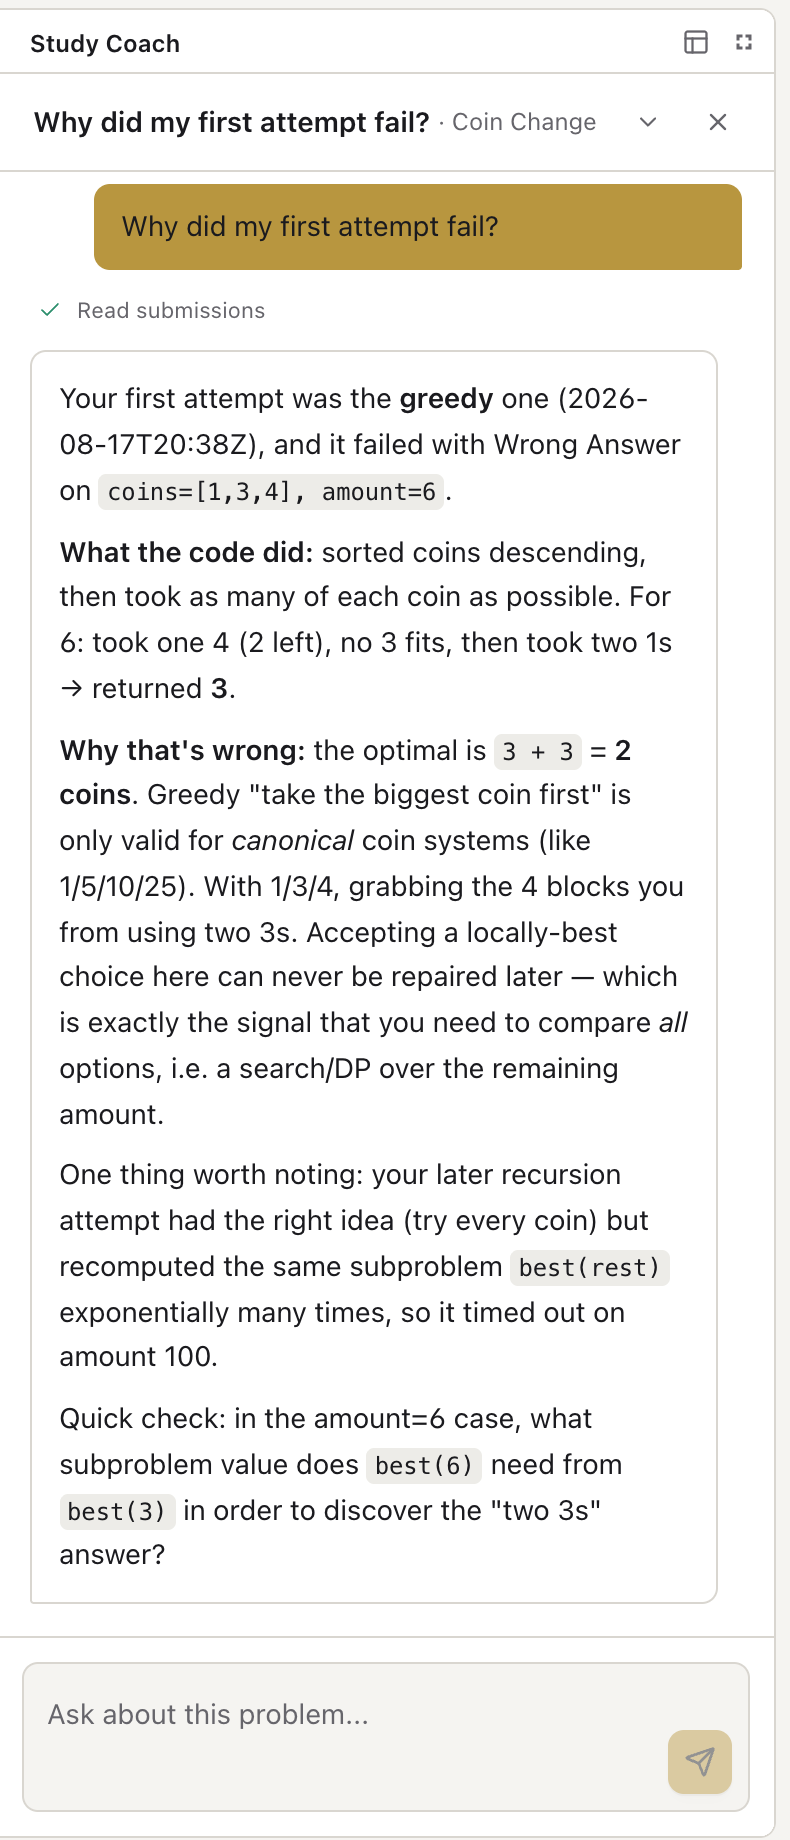
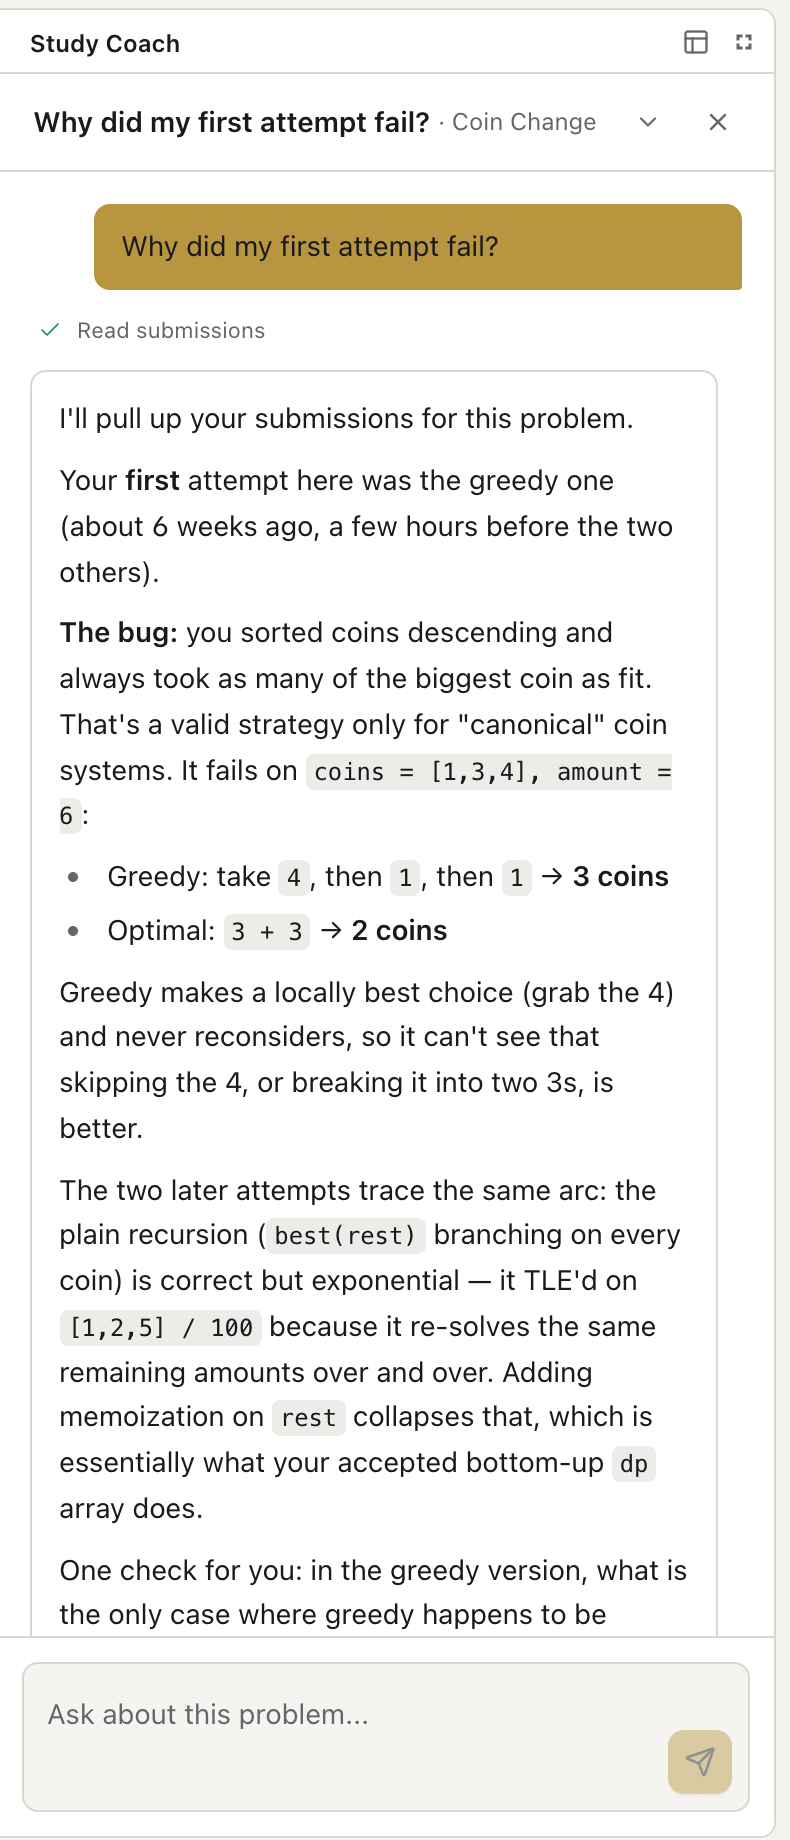
docs: re-record media, add extension side panel, keep-data QA restarts
Re-record the hero GIF and Study Coach screenshots with the Coach fixes,
add Chrome side panel screenshots to the README and a Chrome extension
section to the landing page, and add a --keep-data flag to the QA runner
so the demo servers can restart without reseeding.

Changed region(s): [[0.0608, 0.0929, 0.9418, 0.8984], [0.7595, 0.8364, 0.8506, 0.8674], [0.881, 0.1859, 0.9114, 0.2168]]

diff --git a/apps/web/src/app/(public)/public-home.tsx b/apps/web/src/app/(public)/public-home.tsx
@@ -64,6 +64,18 @@ const COPY = {
         alt: "Study Coach explaining why a greedy Coin Change solution fails on coins [1, 3, 4] with amount 6",
       },
       {
+        eyebrow: "Chrome extension",
+        title: "Review right next to LeetCode.",
+        body: "The side panel shows today's queue and the problem you're on: quiz, cards, notes, and the same rating bar as the web app. A new problem is one click to capture, with all your submissions.",
+        points: [
+          "Detects the problem in your current tab",
+          "A gold ! on the toolbar icon for solved problems you haven't saved",
+          "Shares your web login, so there's no token to paste",
+        ],
+        shot: "extension-panel",
+        alt: "ankify Chrome side panel with a Coin Change quiz question, its explanation, and the rating bar",
+      },
+      {
         eyebrow: "Analysis",
         title: "See which problems are about to slip.",
         body: "The dashboard reads the same FSRS state that schedules your reviews: average recall, lapse rate, and a list of the problems you're most likely to forget next.",
@@ -77,7 +89,7 @@ const COPY = {
       },
     ] satisfies Showcase[],
     extras: [
-      ["Capture badge", "A gold ! on the toolbar icon when you've solved a problem you haven't saved yet."],
+      ["Keyboard-first", "Rate with 1–4, answer with A–D, flip cards with Space, submit with Enter."],
       ["Your own AI key", "Keys are encrypted before they reach the database. The server never uses its own key instead."],
       ["English or 简体中文", "The interface and AI output each have their own language setting."],
       ["Your data stays yours", "Export everything as NDJSON or delete your account from Settings."],
@@ -119,6 +131,14 @@ const COPY = {
         alt: "学习教练解释贪心解法为何在 coins [1, 3, 4]、amount 6 时失败",
       },
       {
+        eyebrow: "Chrome 扩展",
+        title: "在 LeetCode 旁边直接复习。",
+        body: "侧边栏显示今日队列和当前题目：测验、卡片、笔记，以及与网页相同的评分栏。新题一键捕获，连同你的全部提交。",
+        points: ["自动识别当前标签页的题目", "做过但未保存的题，工具栏图标显示金色 !", "与网页共用登录，无需粘贴 token"],
+        shot: "extension-panel",
+        alt: "ankify Chrome 侧边栏：带解析的 Coin Change 测验题与评分栏",
+      },
+      {
         eyebrow: "分析",
         title: "看清哪些题快要忘了。",
         body: "仪表盘读取与排期相同的 FSRS 状态：平均记忆率、遗忘率，以及最可能遗忘的题目排序。",
@@ -128,7 +148,7 @@ const COPY = {
       },
     ] satisfies Showcase[],
     extras: [
-      ["捕获提示", "做过但尚未保存的题，工具栏图标会显示金色 !。"],
+      ["键盘优先", "1–4 评分，A–D 作答，空格翻卡，Enter 提交。"],
       ["自己的 AI key", "key 在写入数据库前加密，服务器从不使用自己的 key 代替。"],
       ["English 或简体中文", "界面语言与 AI 输出语言可以分别设置。"],
       ["数据归你所有", "可在设置中导出 NDJSON，或永久删除账户。"],
@@ -145,10 +165,14 @@ const SHOT_SIZE = {
   "study-coach": [2400, 1500],
   "review-quiz": [2400, 1500],
   "coach-panel": [790, 1840],
+  "extension-panel": [800, 1950],
   analysis: [2400, 1333],
 } as const;
 
 type ShotName = keyof typeof SHOT_SIZE;
+
+/** Tall captures sit beside their text instead of below it. */
+const SIDE_SHOTS = new Set<ShotName>(["coach-panel", "extension-panel"]);
 
 /** Light and dark captures of the same screen; CSS shows the one that matches the active theme. */
 function ThemedShot({
@@ -250,13 +274,13 @@ export function PublicHome() {
       </section>
 
       {copy.showcases.map((item) =>
-        item.shot === "coach-panel" ? (
-          <section key={item.shot} className="grid items-center gap-10 md:grid-cols-[1fr_minmax(0,22rem)]">
+        SIDE_SHOTS.has(item.shot) ? (
+          <section key={item.shot} className="grid items-center gap-10 md:grid-cols-[1fr_minmax(0,24rem)]">
             <div className="space-y-6">
               <ShowcaseText item={item} />
             </div>
             <div className="mx-auto w-full max-w-sm">
-              <ThemedShot name={item.shot} alt={item.alt} sizes="(min-width: 768px) 352px, 100vw" />
+              <ThemedShot name={item.shot} alt={item.alt} sizes="(min-width: 768px) 384px, 100vw" />
             </div>
           </section>
         ) : (

diff --git a/README.md b/README.md
@@ -56,13 +56,18 @@ Study Coach sits beside any page. It uses tools to look up the problem, your sub
   <img alt="Study Coach panel explaining why a greedy Coin Change submission failed on coins=[1,3,4], amount=6" src="images/study-coach-light.png">
 </picture>
 
-A real exchange from the screenshot above:
+A real exchange from the screenshot above, lightly trimmed:
 
 > **You:** Why did my first attempt fail?
 >
-> **Coach** *(reads your submissions)*: Your first attempt was the greedy one, and it failed with Wrong Answer on `coins=[1,3,4], amount=6`. It took one 4, no 3 fit, then two 1s → returned **3**. The optimal is `3 + 3` = **2 coins**. Greedy "take the biggest coin first" only works for *canonical* coin systems like 1/5/10/25. […] Your later recursion attempt had the right idea but recomputed `best(rest)` exponentially many times, so it timed out on amount 100.
+> **Coach** *(reads your submissions)*: Your first attempt was the greedy one, about 6 weeks ago. You sorted coins descending and always took as many of the biggest coin as fit. That only works for "canonical" coin systems. It fails on `coins = [1,3,4], amount = 6`:
 >
-> Quick check: in the amount=6 case, what subproblem value does `best(6)` need from `best(3)` to discover the "two 3s" answer?
+> - Greedy: take `4`, then `1`, then `1` → **3 coins**
+> - Optimal: `3 + 3` → **2 coins**
+>
+> Your plain recursion was correct but exponential. It hit TLE on `[1,2,5] / 100` because it re-solves the same remaining amounts, which is exactly what your accepted bottom-up `dp` fixes.
+>
+> One check for you: why does `[1,2,5]` work with greedy but `[1,3,4]` doesn't?
 
 Coach can jump to another problem or suggest a new card or quiz. Anything that writes data waits for your confirmation.
 
@@ -70,7 +75,12 @@ Coach can jump to another problem or suggest a new card or quiz. Anything that w
 
 The extension reads the LeetCode page directly: title, statement, tags, and every accepted and failed submission. No copy-paste. If you have solved a problem but haven't saved it yet, the toolbar icon shows a gold `!`. Open the side panel to quiz, flip cards, and rate recall without leaving LeetCode.
 
-<!-- Extension screenshot: images/extension-side-panel-dark.png (LeetCode + ankify side panel, English quiz) -->
+<p align="center">
+  <picture>
+    <source media="(prefers-color-scheme: dark)" srcset="images/extension-side-panel-dark.png">
+    <img width="640" alt="ankify Chrome side panel: today's due queue, and a Coin Change quiz question with its explanation and the rating bar" src="images/extension-side-panel-light.png">
+  </picture>
+</p>
 
 ### See what's about to slip
 

diff --git a/docs/SELF_HOSTING.md b/docs/SELF_HOSTING.md
@@ -39,7 +39,8 @@ pnpm dev:demo     # load the demo deck, then start Web + the local AI Job worker
 pnpm demo:reset   # reload the demo deck without starting servers
 ```
 
-`pnpm qa:reset` switches back to the regular QA fixtures.
+`pnpm qa:reset` switches back to the regular QA fixtures. Add `--keep-data` to
+`pnpm dev:qa` or `pnpm dev:demo` to restart the servers without reseeding.
 
 Open `http://localhost:3000/api/qa/login` to enter the fixed `qa@ankify.local`
 account. Web and the extension then reuse the same Better Auth cookie. The QA
